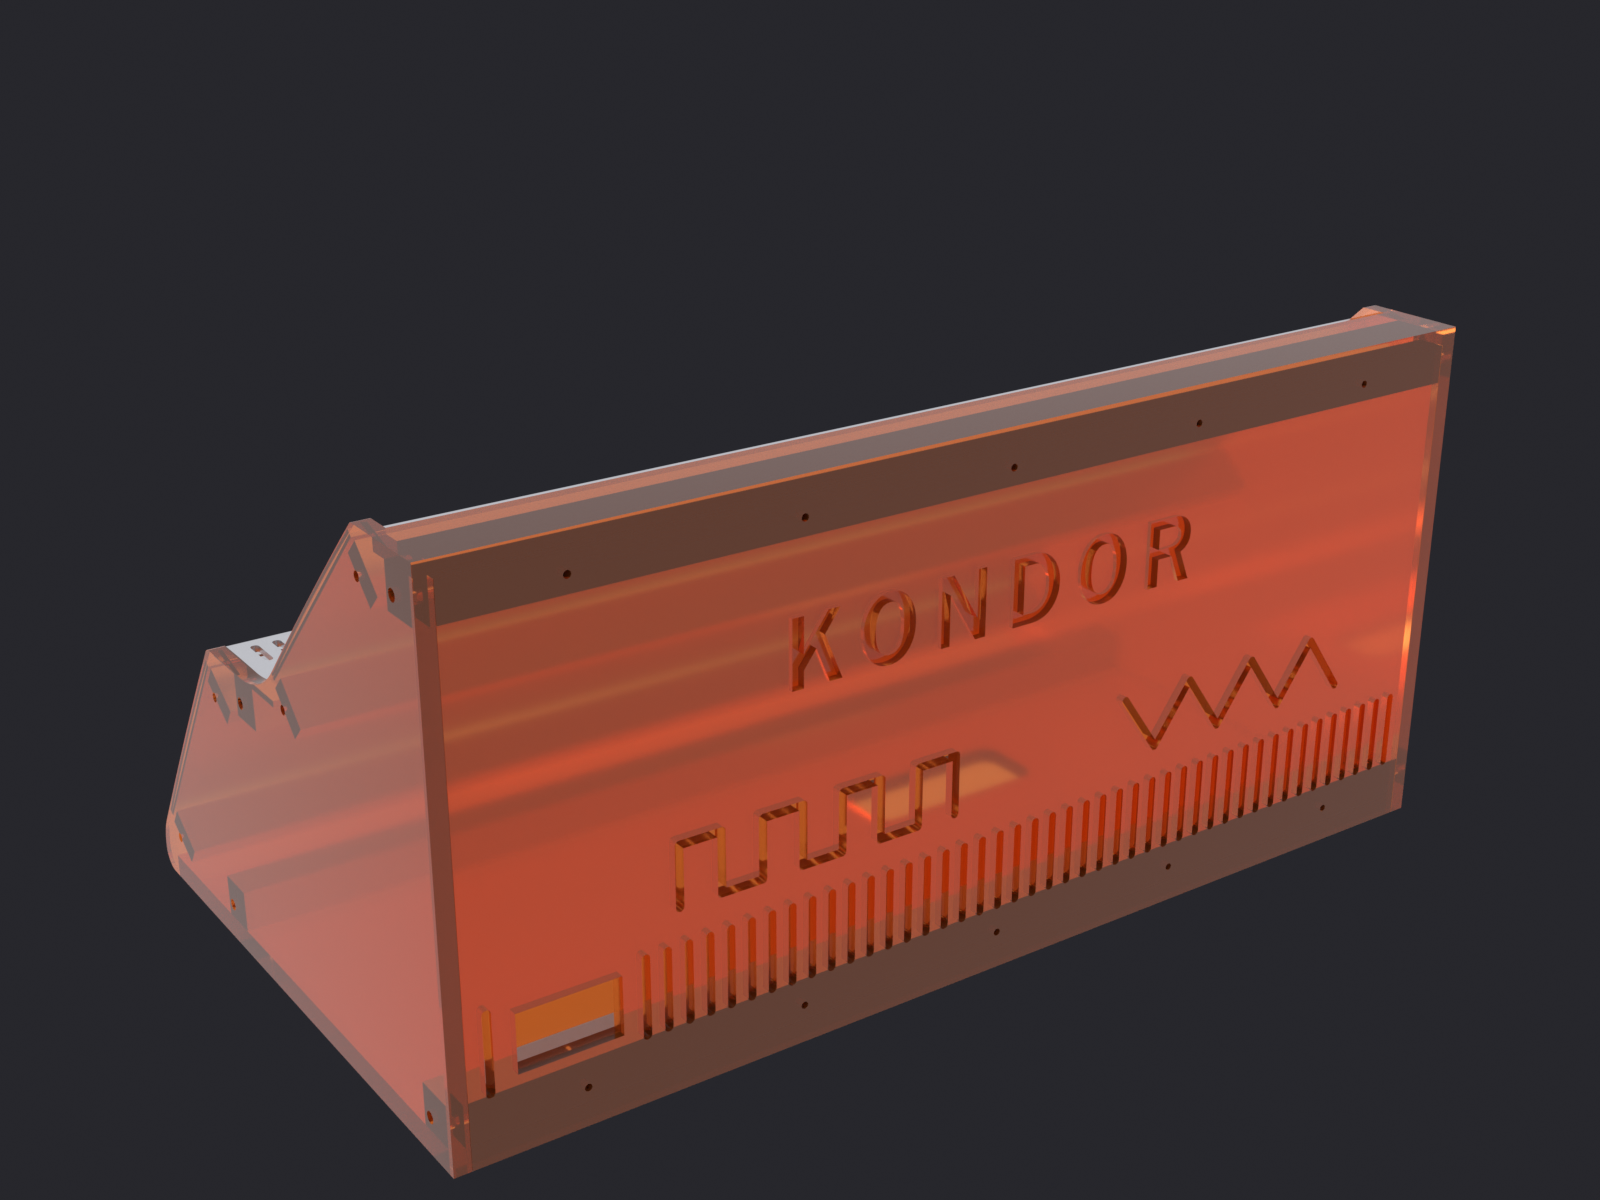
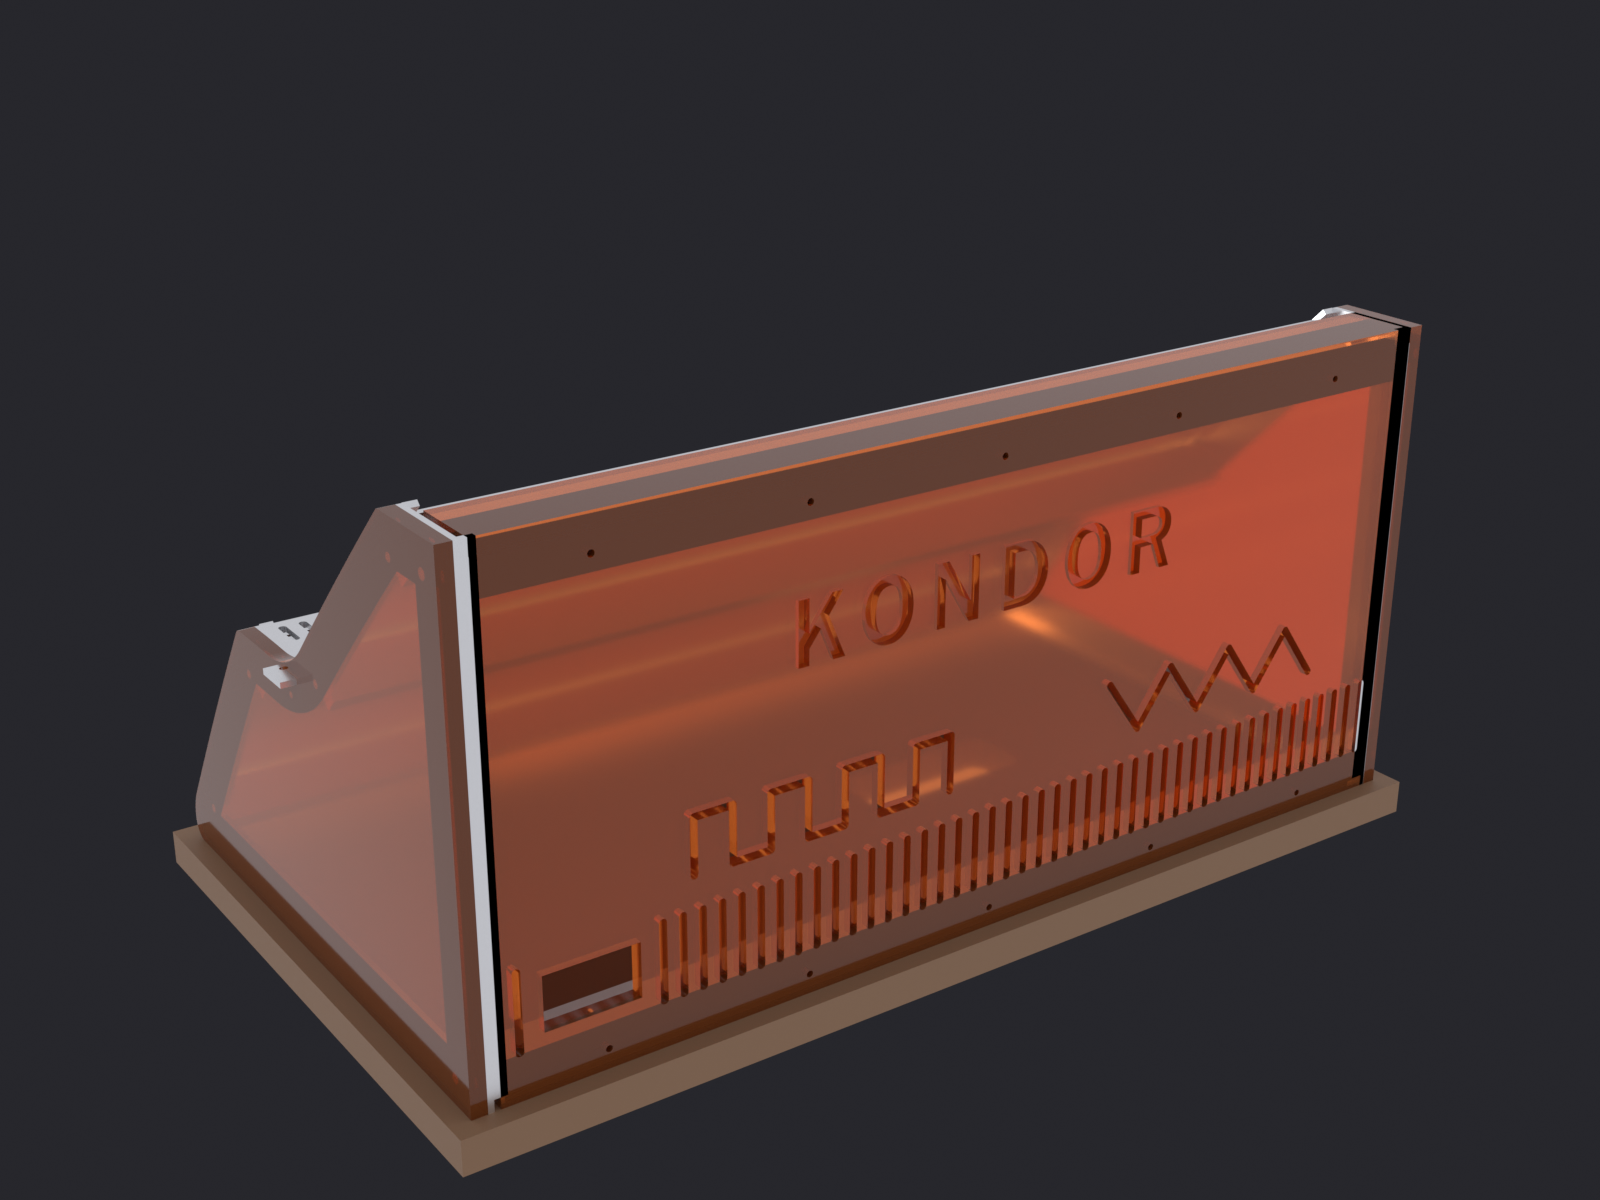
El render llevaba un dia ensenando un case sostenido por su propia piel
La costilla NO ESTABA EN NINGUN ASSEMBLY. Es la pieza portante desde el
2026-08-26 y el render seguia mostrando un aparato que se sostiene con el
acrilico. Entra en assembly_aluminio().

Y LA TABLA HABRIA SALIDO NARANJA. bandeja_base() vivia dentro de
planchas_acrilico(), asi que al pasar el suelo a madera el render la habria
pintado de PMMA translucido: un render que miente sobre una decision de
material. Sale a su propio assembly_madera() con su STL y su material.

EL DESARROLLO NO SE PUEDE EXTRUIR TAL CUAL, y esto se vio en el primer render:
costilla() era linear_extrude(costilla_2d()), y costilla_2d() es el DESARROLLO
-- las alas salen tumbadas POR FUERA del contorno. Extruirlo daba una pieza con
aletas planas asomando de la silueta del case, y parecia un defecto del modelo.
Ahora costilla() pliega de verdad: el alma en su plano y cada ala levantada 90
grados sobre su tramo, hacia dentro (spec 4.3). El alivio de 6 x 6 de P6 sale
solo, porque las retracciones son las mismas que usa costilla_ala(). La costilla
del otro lado va ESPEJADA o sus alas doblarian hacia fuera.

El bbox de camara pasa a mirar las TRES mallas. La tabla sobresale 10 mm por los
cuatro lados y es lo mas bajo del case: con dos mallas el zocalo salia cortado
por abajo.

ARCHIVO. Habia dos carpetas de viejos, `olders` y `oldest`, y la escalera no
daba para una tercera -- la de hoy habria tenido que llamarse `oldests`. Ahora
todas cuelgan de `renders/viejos/`: las dos viejas por su nombre y la nueva por
[…]

Changed region(s): [[0.0938, 0.2467, 0.9062, 0.9867]]

diff --git a/case/renders/render.py b/case/renders/render.py
@@ -81,6 +81,19 @@ alu = importar("assembly_aluminio")
 alu.data.materials.append(mat(
     "aluminio", **{"Base Color": (0.85, 0.86, 0.88, 1.0),
                    "Metallic": 1.0, "Roughness": 0.35}))
+# LA TABLA, en su propio STL desde el 2026-08-27. Estuvo dentro del ensamblado
+# de acrilico mientras el suelo era PMMA, y meterla ahi ahora la pintaria de
+# naranja translucido: un render que miente sobre una decision de material.
+#
+# EL COLOR ES DE MIRAR, NO UNA COTA -- igual que el naranja del acrilico (ver
+# README). La especie no esta elegida: las cuentas del modelo van contra
+# E = 11000 MPa, que es nogal o arce, y esto es un nogal de catalogo. Cuando
+# el pliego cierre la especie, este numero se cambia aqui y en ningun otro
+# sitio. Sin Metallic y con roughness alto: la madera no brilla.
+mad = importar("assembly_madera")
+mad.data.materials.append(mat(
+    "nogal", **{"Base Color": (0.28, 0.16, 0.09, 1.0),
+                "Roughness": 0.55, "Specular IOR Level": 0.35}))
 
 esc = bpy.context.scene
 esc.render.engine = "CYCLES"
@@ -116,7 +129,7 @@ nt.links.new(fondo_visible.outputs["Background"], mezcla.inputs[2])  # Fac=1 (ca
 nt.links.new(mezcla.outputs["Shader"], nt.nodes["World Output"].inputs["Surface"])
 esc.world = mundo
 
-# --- bbox real de las 2 mallas (Ruling B) --------------------------------
+# --- bbox real de las 3 mallas (Ruling B) --------------------------------
 # El chasis de acero del PSU (#107) NO se importa aqui, y se probo: se rendeo
 # con el dentro y no se ve en ninguna de las dos vistas -- vive en el piso
 # inferior, detras de los paneles y de la piel. Meterlo costaba minutos de
@@ -126,8 +139,11 @@ esc.world = mundo
 # linear_extrude sobre Z): X = profundidad, Y = altura (arriba),
 # Z = ancho. Confirmado con el bbox real: X en [-10, 360], Y en [-5, 396],
 # Z en [0, 500] -- coincide con el board.
+# LAS TRES MALLAS, no dos. La tabla sobresale 10 mm del cuerpo por los cuatro
+# lados y es lo mas bajo del case: dejarla fuera del bbox encuadra un aparato
+# que no es el que se ve, y el zocalo saldria cortado por abajo.
 esquinas = [obj.matrix_world @ Vector(c)
-            for obj in (acr, alu) for c in obj.bound_box]
+            for obj in (acr, alu, mad) for c in obj.bound_box]
 xs, ys, zs = ([p[i] for p in esquinas] for i in range(3))
 minv = Vector((min(xs), min(ys), min(zs)))
 maxv = Vector((max(xs), max(ys), max(zs)))

diff --git a/case/README.md b/case/README.md
@@ -738,7 +738,9 @@ https://claude.ai/code/artifact/0ff54175-6449-4e14-93dd-7c614251bf17
       retirada y el suelo pasado a tabla de madera. Vano libre del costado de
       119.0 a **65.2 mm**, flecha de 0.38 a **0.11**
 - [x] Plantilla de panel KiCad
-- [x] Render del conjunto — dos vistas: frontal
+- [x] **Render del conjunto rehecho** (2026-08-27) con la costilla, la tabla y
+      las alas dobladas. Los anteriores están en `renders/viejos/`, ordenados
+      por fecha. Dos vistas: frontal
       ([`renders/sam17-case.png`](renders/sam17-case.png)) y trasera
       ([`renders/sam17-case-trasera.png`](renders/sam17-case-trasera.png)).
       La trasera es la que importa: muestra las tres ondas — sierra, triángulo
